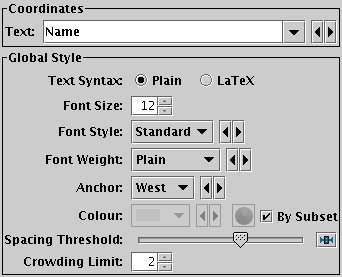
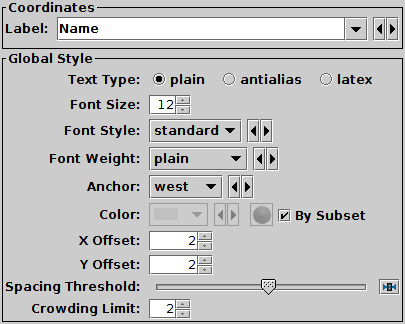
ttools: add pixel offset options to LabelPlotter
New config options xoff and yoff allow fine tuning of label positions.
Suggested by Gabriel Bihain.

Changed region(s): [[0.0, 0.0, 1.0, 1.0]]

diff --git a/ttools/src/main/uk/ac/starlink/ttools/plot2/layer/LabelStyle.java b/ttools/src/main/uk/ac/starlink/ttools/plot2/layer/LabelStyle.java
@@ -3,6 +3,7 @@ package uk.ac.starlink.ttools.plot2.layer;
 import java.awt.Color;
 import java.awt.Component;
 import java.awt.Graphics;
+import java.awt.Point;
 import java.awt.Rectangle;
 import javax.swing.Icon;
 import uk.ac.starlink.ttools.plot.Style;
@@ -25,6 +26,8 @@ public class LabelStyle implements Style {
     private final Color color_;
     private final int spacing_;
     private final byte crowdLimit_;
+    private final int xoff_;
+    private final int yoff_;
 
     /**
      * Constructor.
@@ -34,14 +37,17 @@ public class LabelStyle implements Style {
      * @param  color  text colour
      * @param  spacing  minimum pixel distance between labels
      * @param  crowdLimit  number of labels allowed within spacing
+     * @param  offset   pixel offset for label positioning
      */
     public LabelStyle( Captioner captioner, Anchor anchor, Color color,
-                       int spacing, byte crowdLimit ) {
+                       int spacing, byte crowdLimit, Point offset ) {
         captioner_ = captioner;
         anchor_ = anchor;
         color_ = color;
         spacing_ = spacing;
         crowdLimit_ = crowdLimit;
+        xoff_ = offset == null ? 0 : offset.x;
+        yoff_ = offset == null ? 0 : offset.y;
     }
 
     public Icon getLegendIcon() {
@@ -101,7 +107,7 @@ public class LabelStyle implements Style {
      * @param  label  text content
      */
     public void drawLabel( Graphics g, Caption label ) {
-        anchor_.drawCaption( label, 0, 0, captioner_, g );
+        anchor_.drawCaption( label, xoff_, yoff_, captioner_, g );
     }
 
     /**
@@ -111,7 +117,7 @@ public class LabelStyle implements Style {
      * @return  bounding box
      */
     public Rectangle getCaptionBounds( Caption label ) {
-        return anchor_.getCaptionBounds( label, 0, 0, captioner_ );
+        return anchor_.getCaptionBounds( label, xoff_, yoff_, captioner_ );
     }
 
     @Override
@@ -122,7 +128,10 @@ public class LabelStyle implements Style {
                 && this.anchor_.equals( other.anchor_ )
                 && this.color_.equals( other.color_ )
                 && this.spacing_ == other.spacing_
-                && this.crowdLimit_ == other.crowdLimit_;
+                && this.crowdLimit_ == other.crowdLimit_
+                && this.xoff_ == other.xoff_
+                && this.yoff_ == other.yoff_;
+ 
         }
         else {
             return false;
@@ -137,6 +146,8 @@ public class LabelStyle implements Style {
         code = 23 * code + color_.hashCode();
         code = 23 * code + spacing_;
         code = 23 * code + crowdLimit_;
+        code = 23 * code + xoff_;
+        code = 23 * code + yoff_;
         return code;
     }
 
@@ -146,8 +157,8 @@ public class LabelStyle implements Style {
     private class LabelStyleIcon implements Icon {
         private final int width_;
         private final int height_;
-        private final int xoff_;
-        private final int yoff_;
+        private final int xoff1_;
+        private final int yoff1_;
         private final Caption label_;
 
         /**
@@ -160,8 +171,8 @@ public class LabelStyle implements Style {
             int h = Math.max( -box0.y, box0.y + box0.height );
             int size = Math.max( w, h );
             assert size > 0;
-            xoff_ = size / 2;
-            yoff_ = size / 2;
+            xoff1_ = xoff_ + size / 2;
+            yoff1_ = yoff_ + size / 2;
             width_ = size;
             height_ = size;
         }
@@ -177,8 +188,8 @@ public class LabelStyle implements Style {
         public void paintIcon( Component c, Graphics g, int x, int y ) {
             Color color0 = g.getColor();
             g.setColor( color_ );
-            int gx = x + xoff_;
-            int gy = y + yoff_;
+            int gx = x + xoff1_;
+            int gy = y + yoff1_;
             g.translate( gx, gy );
             LabelStyle.this.drawLabel( g, label_ );
             g.translate( -gx, -gy );

diff --git a/ttools/src/main/uk/ac/starlink/ttools/plot2/layer/LabelPlotter.java b/ttools/src/main/uk/ac/starlink/ttools/plot2/layer/LabelPlotter.java
@@ -73,6 +73,12 @@ public abstract class LabelPlotter extends AbstractPlotter<LabelStyle> {
         , true );
     private static final int MAX_CROWDLIMIT = Byte.MAX_VALUE / 2 - 1;
 
+    /** Config key to control X pixel offset. */
+    public static final ConfigKey<Integer> XOFF_KEY = createOffsetKey( "X" );
+
+    /** Config key to control Y pixel offset. */
+    public static final ConfigKey<Integer> YOFF_KEY = createOffsetKey( "Y" );
+
     /** Config key to control minimum pixel label spacing. */
     public static final ConfigKey<Integer> SPACING_KEY =
         IntegerConfigKey.createSliderKey(
@@ -189,6 +195,8 @@ public abstract class LabelPlotter extends AbstractPlotter<LabelStyle> {
         list.addAll( Arrays.asList( new ConfigKey<?>[] {
             StyleKeys.ANCHOR,
             StyleKeys.COLOR,
+            XOFF_KEY,
+            YOFF_KEY,
             SPACING_KEY,
             CROWDLIMIT_KEY,
         } ) );
@@ -204,10 +212,12 @@ public abstract class LabelPlotter extends AbstractPlotter<LabelStyle> {
         }
         byte crowdLimit = (byte) iclimit;
         assert crowdLimit == iclimit;
+        Point offset = new Point( config.get( XOFF_KEY ).intValue(),
+                                  - config.get( YOFF_KEY ).intValue() );
         return new LabelStyle( CAPTIONER_KEYSET.createValue( config ),
                                config.get( StyleKeys.ANCHOR ),
                                config.get( StyleKeys.COLOR ),
-                               config.get( SPACING_KEY ), crowdLimit );
+                               config.get( SPACING_KEY ), crowdLimit, offset );
     }
 
     public PlotLayer createLayer( DataGeom geom0,
@@ -466,6 +476,28 @@ public abstract class LabelPlotter extends AbstractPlotter<LabelStyle> {
                 return geom;
             }
         };
+    }
+
+    /**
+     * Returns a config key for specifying pixel offset in a named direction.
+     *
+     * @param  axName  axis name
+     * @return  config key
+     */
+    private static ConfigKey<Integer> createOffsetKey( String axisName ) {
+        String axName = axisName.toUpperCase();
+        String axname = axisName.toLowerCase();
+        ConfigMeta meta = new ConfigMeta( axname + "off", axName + " Offset" );
+        meta.setStringUsage( "<pixels>" );
+        meta.setShortDescription( "Pixel offset in " + axName + " direction" );
+        meta.setXmlDescription( new String[] {
+            "<p>Allows fine adjustment of label positioning in the",
+            axName + " direction.",
+            "The value is a positive or negative pixel offset",
+            "applied to the position of each plotted label.",
+            "</p>",
+        } );
+        return IntegerConfigKey.createSpinnerKey( meta, 0, -999, 999 );
     }
 
     /**
